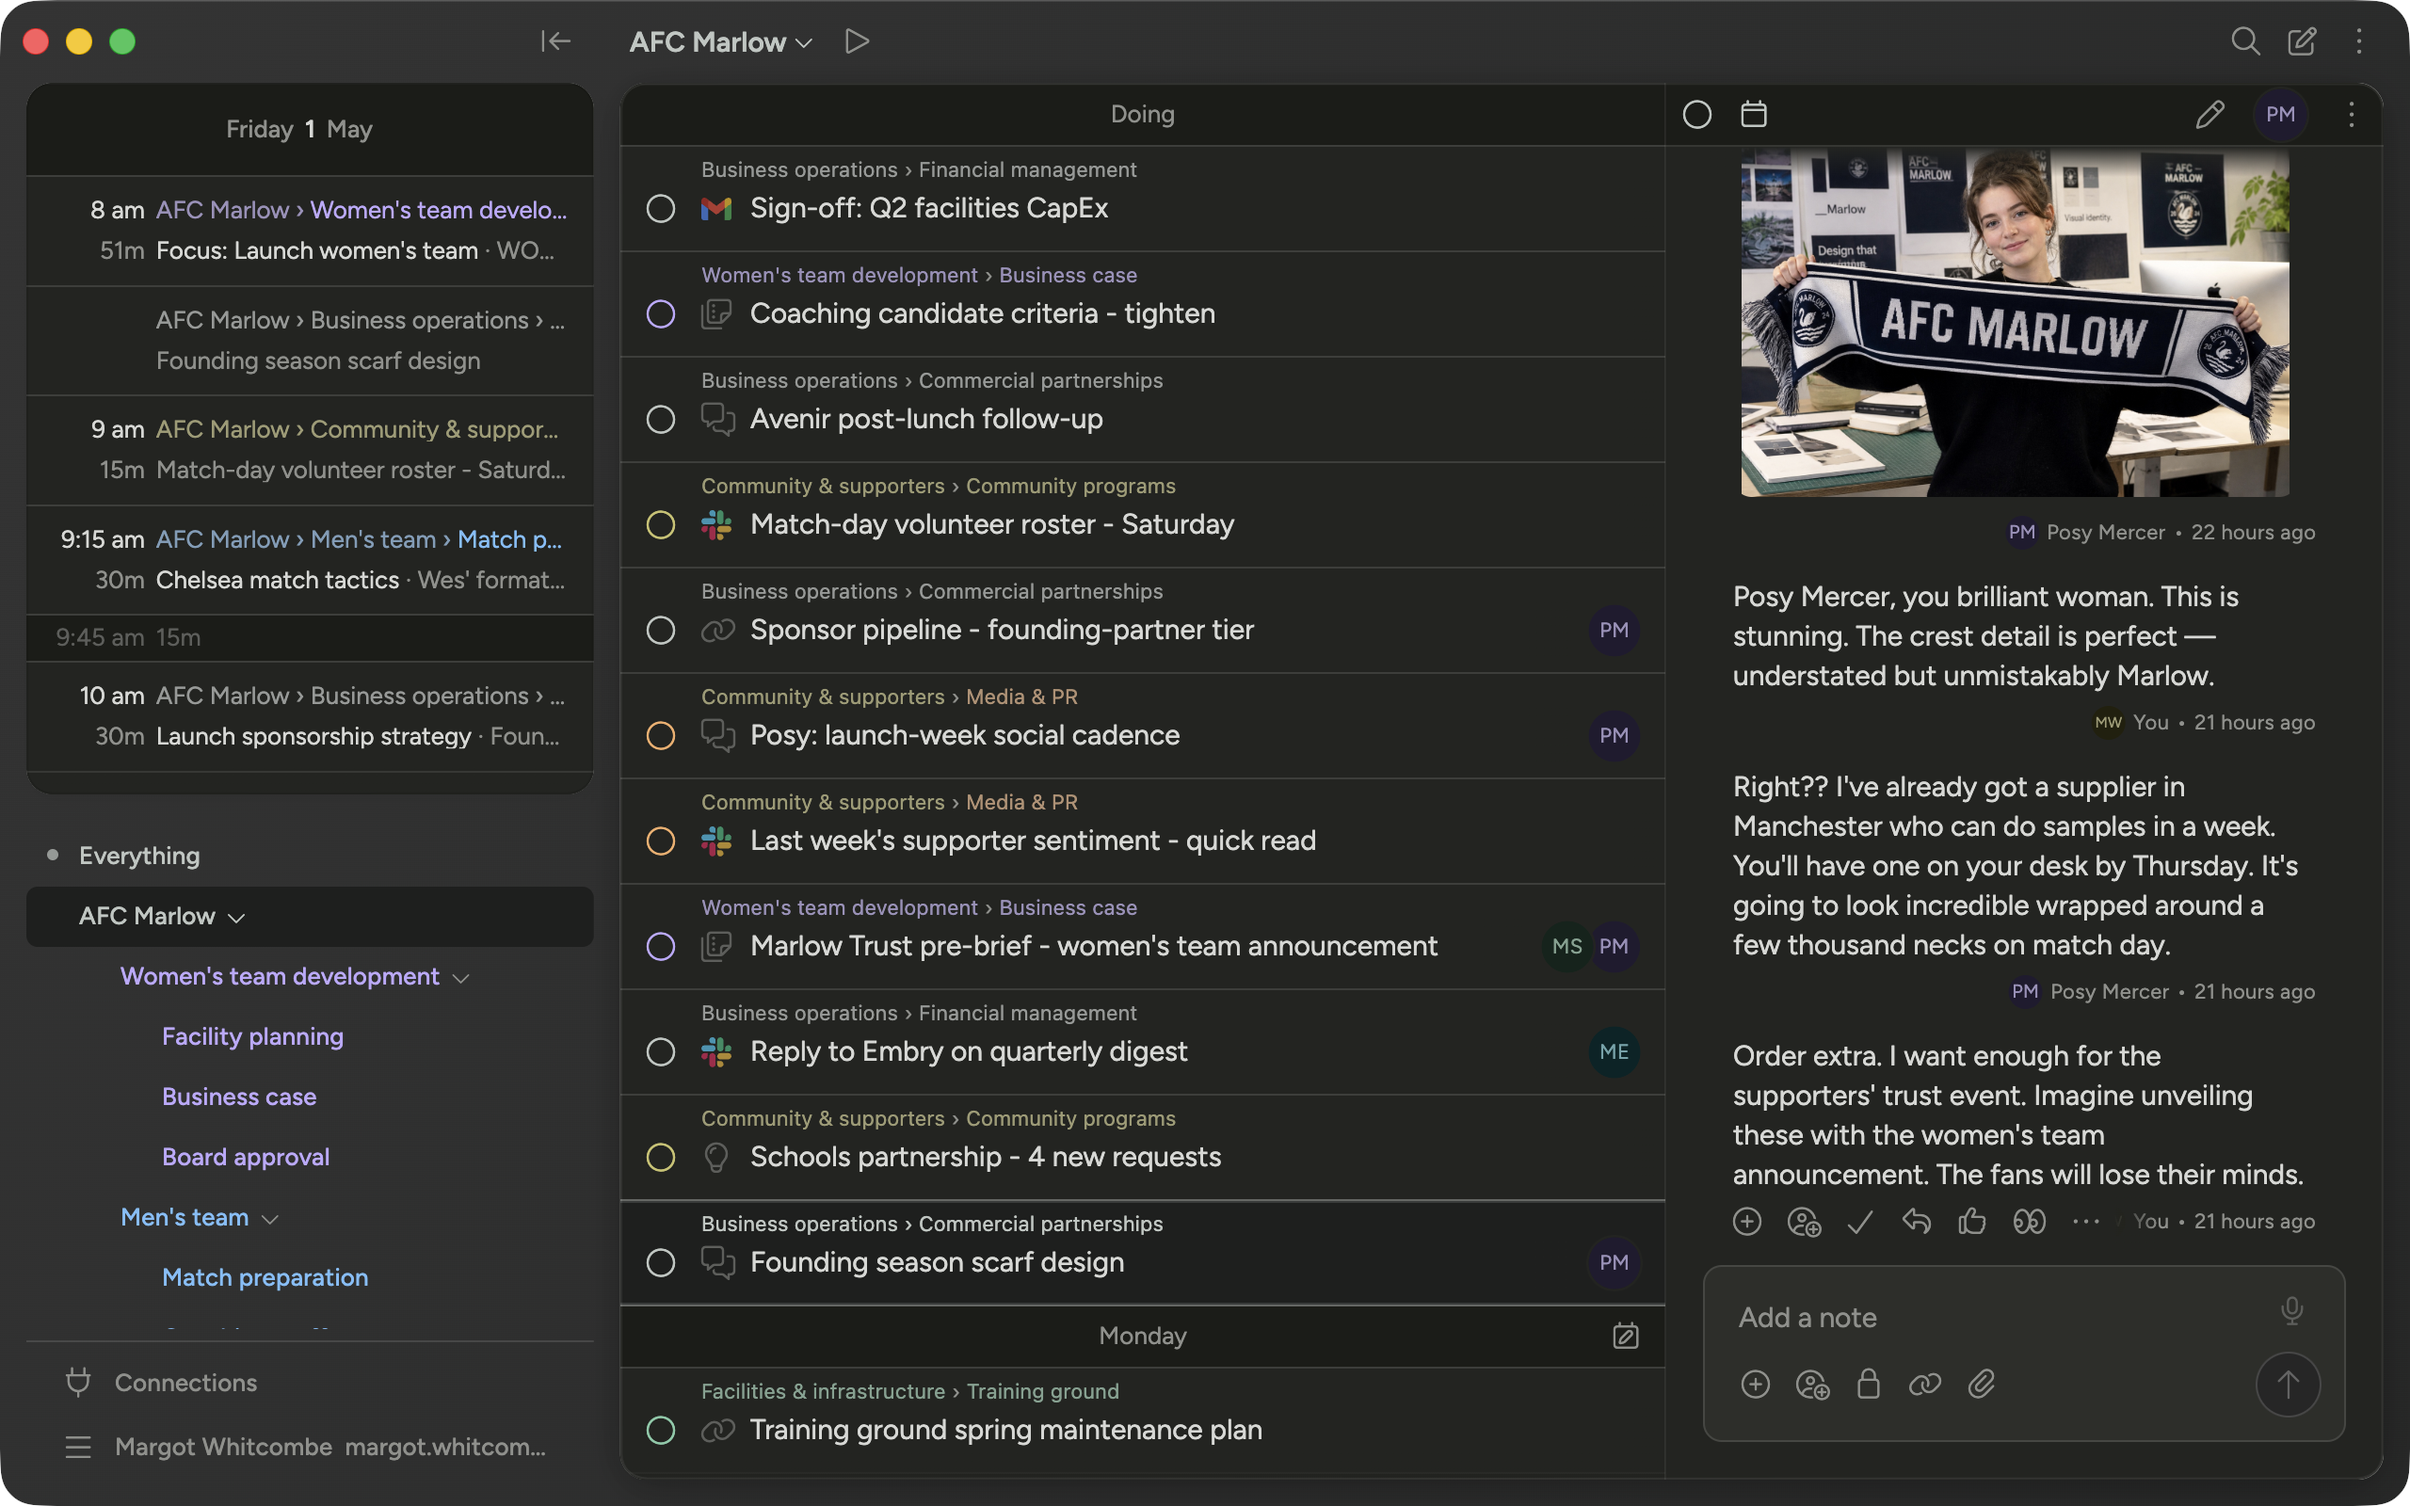
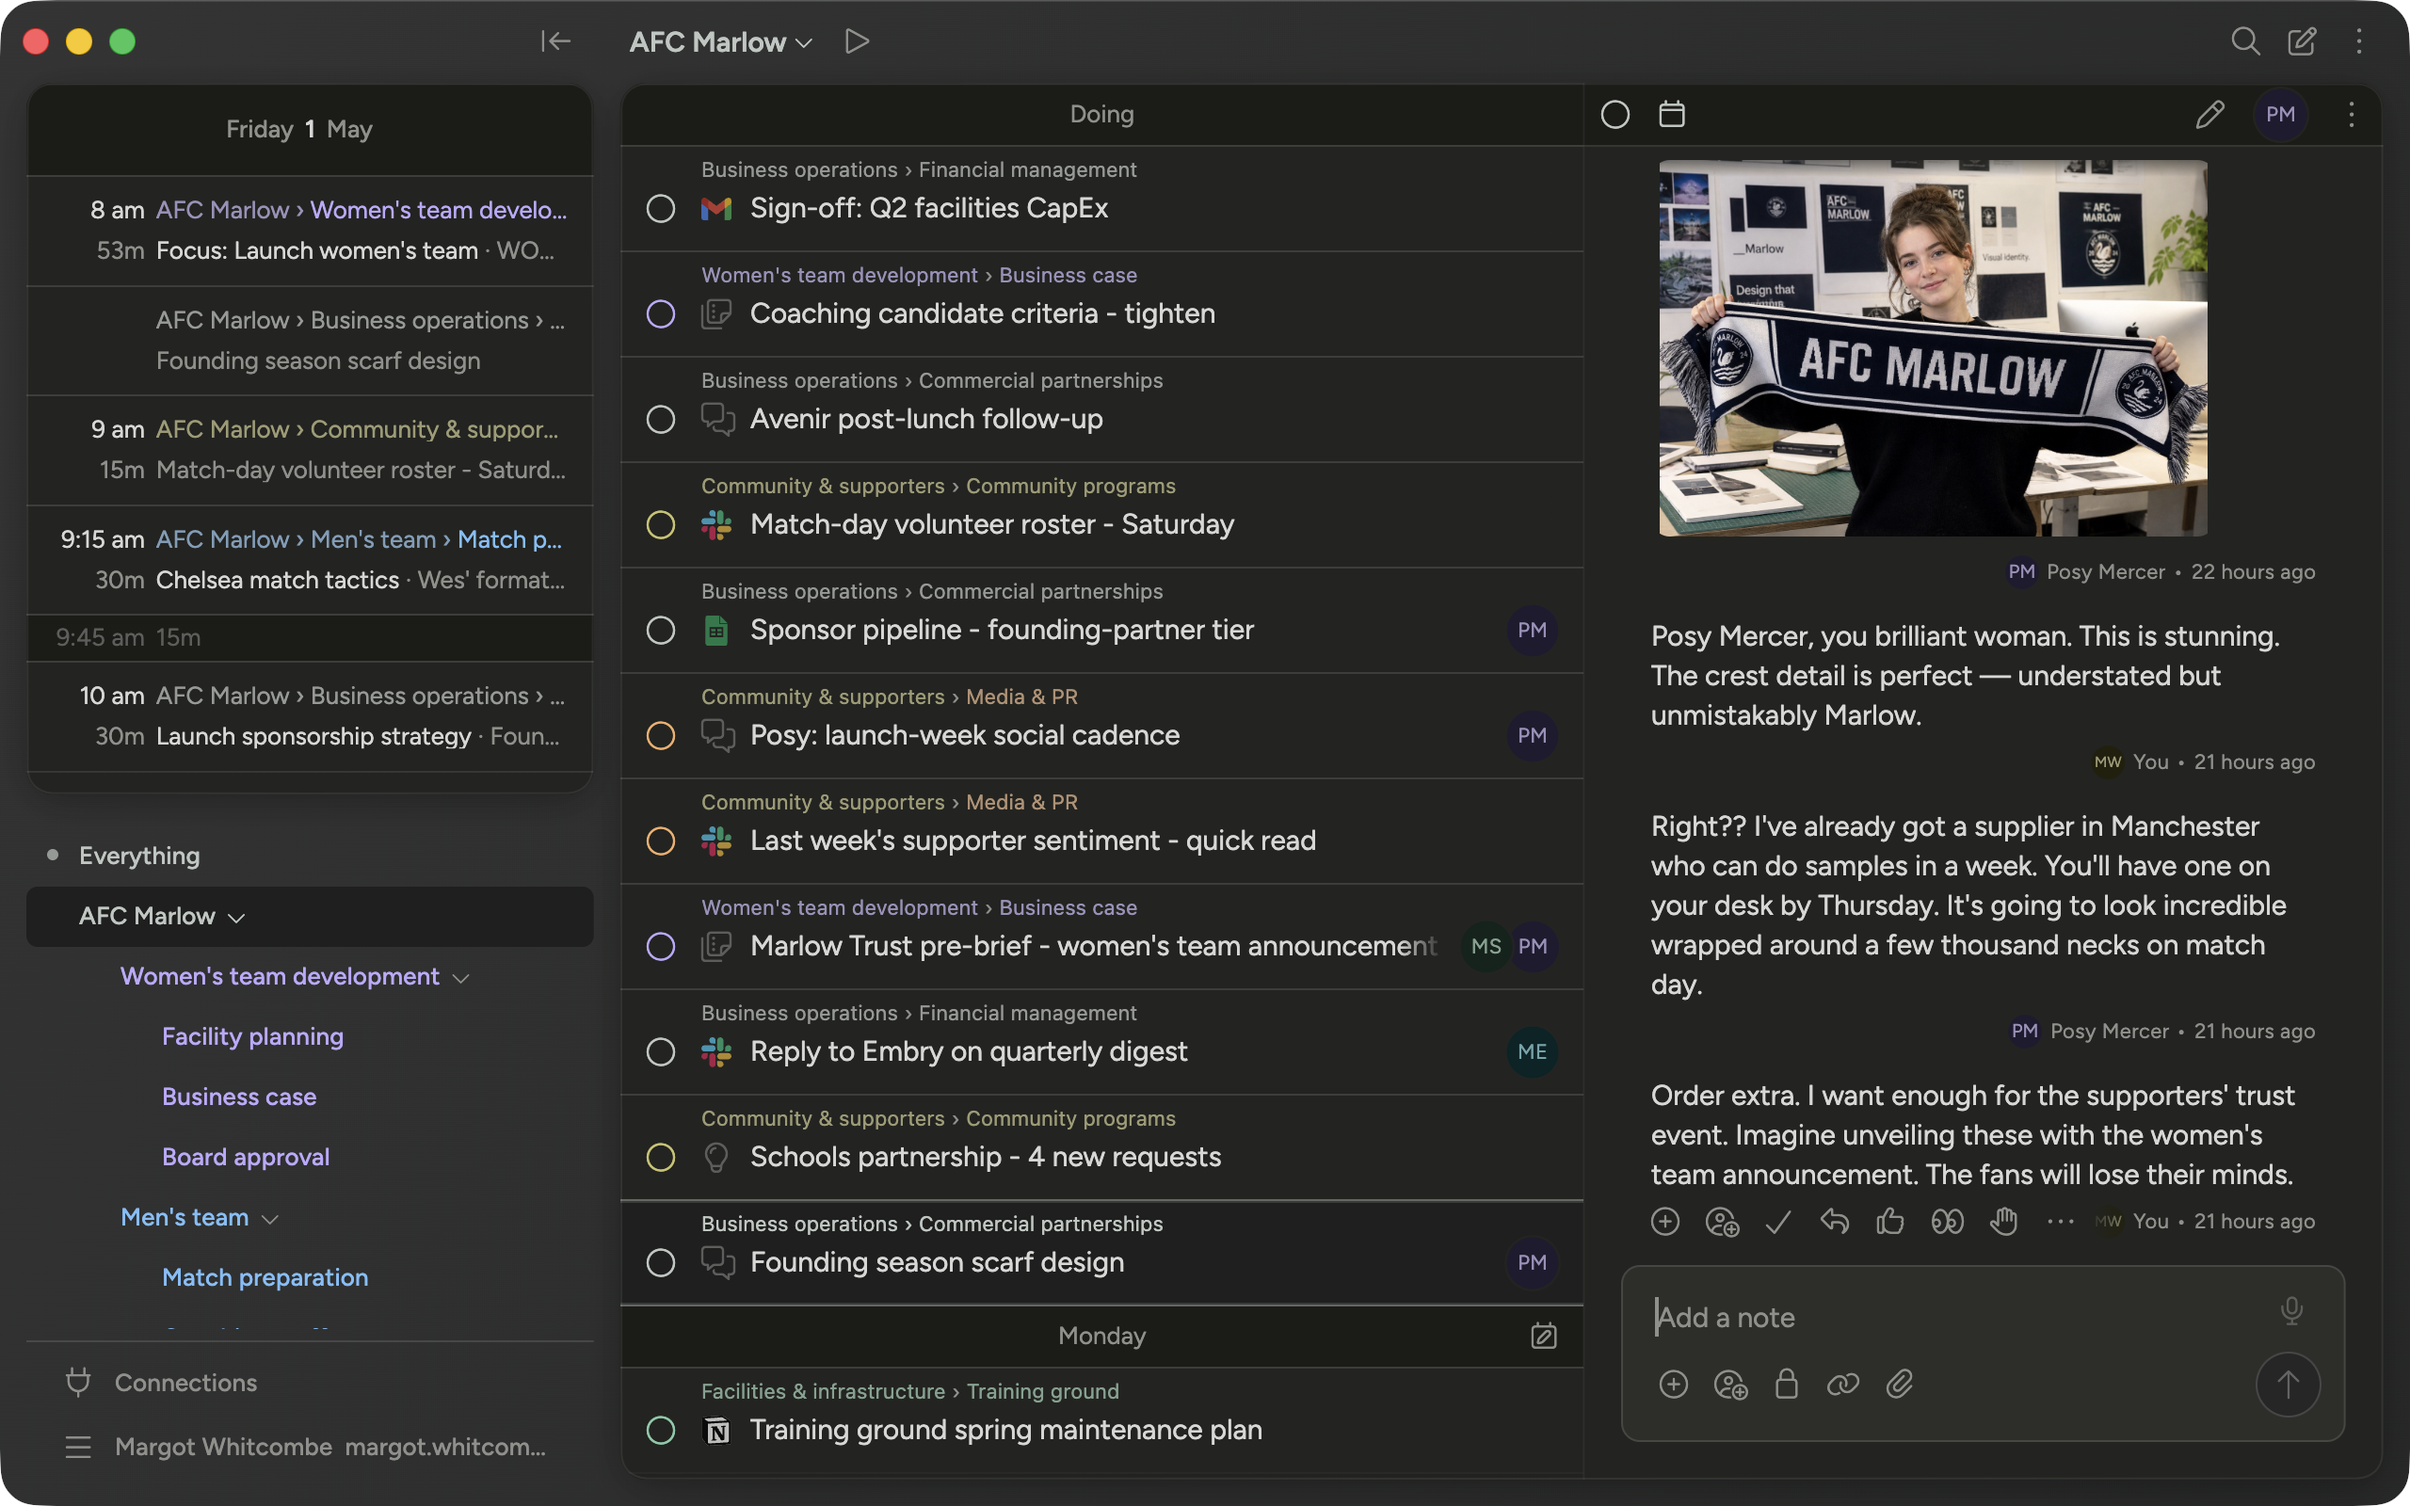
Serve hero screenshot as WebP
Cuts each hero image from ~1.5MB PNG to ~250KB WebP, with PNG fallback.

diff --git a/apps/site/app/routes/home.tsx b/apps/site/app/routes/home.tsx
@@ -143,9 +143,15 @@ export default function Home() {
             <div className={classes.heroScreenshotGlow} />
             <picture>
               <source
+                srcSet="/assets/screenshot-d.webp"
+                type="image/webp"
+                media="(prefers-color-scheme: dark)"
+              />
+              <source
                 srcSet="/assets/screenshot-d.png"
                 media="(prefers-color-scheme: dark)"
               />
+              <source srcSet="/assets/screenshot.webp" type="image/webp" />
               <img
                 src="/assets/screenshot.png"
                 alt="Plot interface showing a team conversation transforming into a prioritized action item"
